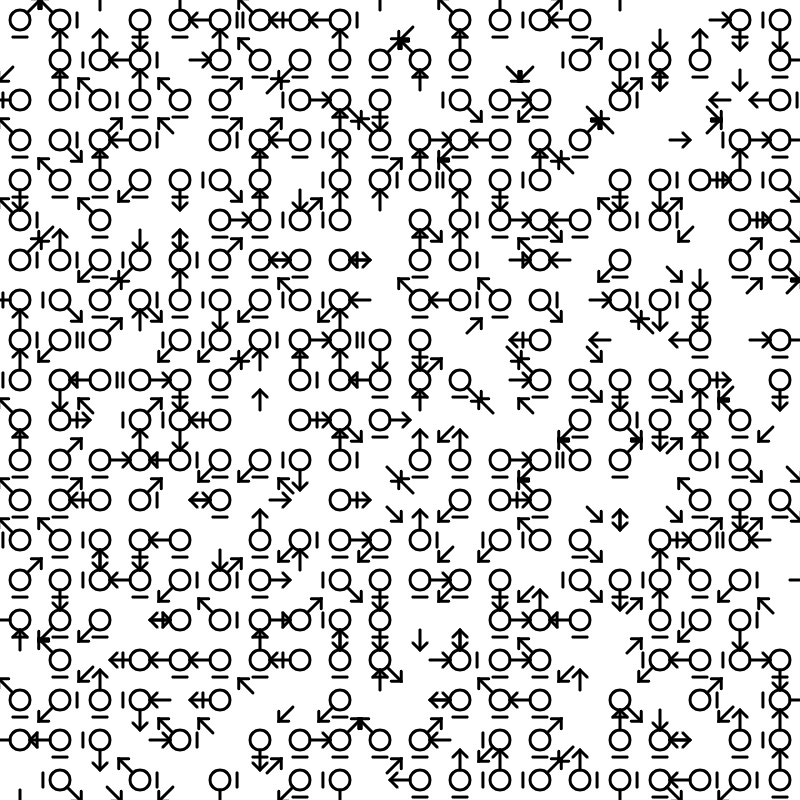
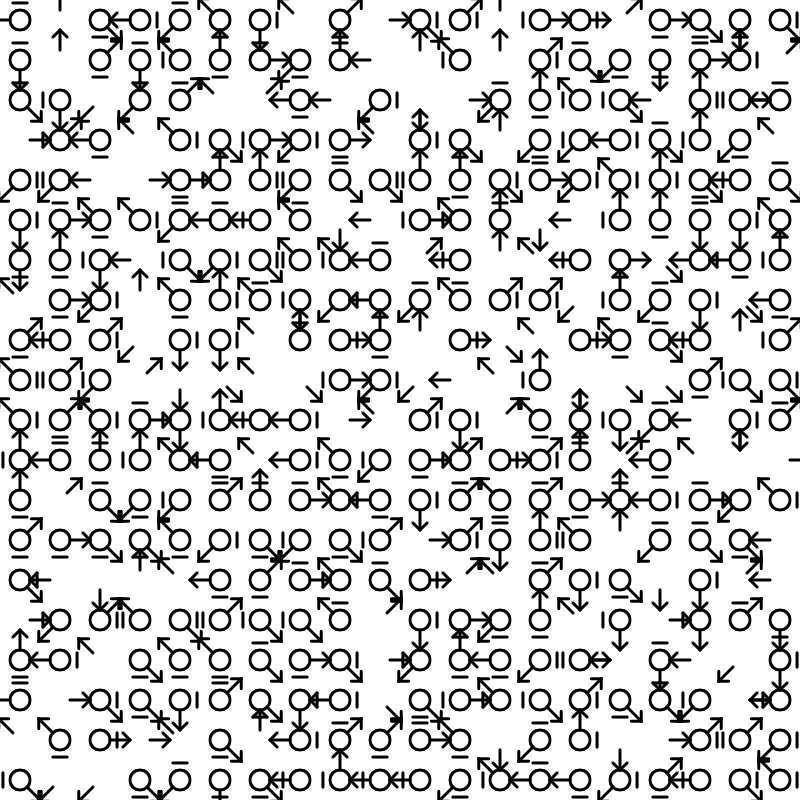
Corrected coordinate error

diff --git a/shape_tests/sketch.js b/shape_tests/sketch.js
@@ -173,7 +173,7 @@ const crossLine = (start, radius, shortAngle, angle) => {
     y2 = start.y - length;
   } else if (angle === 270) {
     start.x -= shortAngle;
-    start.y += radius + shortAngle;
+    start.y -= radius + shortAngle;
     x2 = start.x + shortAngle * 2;
     y2 = start.y;
   } else if (angle === 315) {
